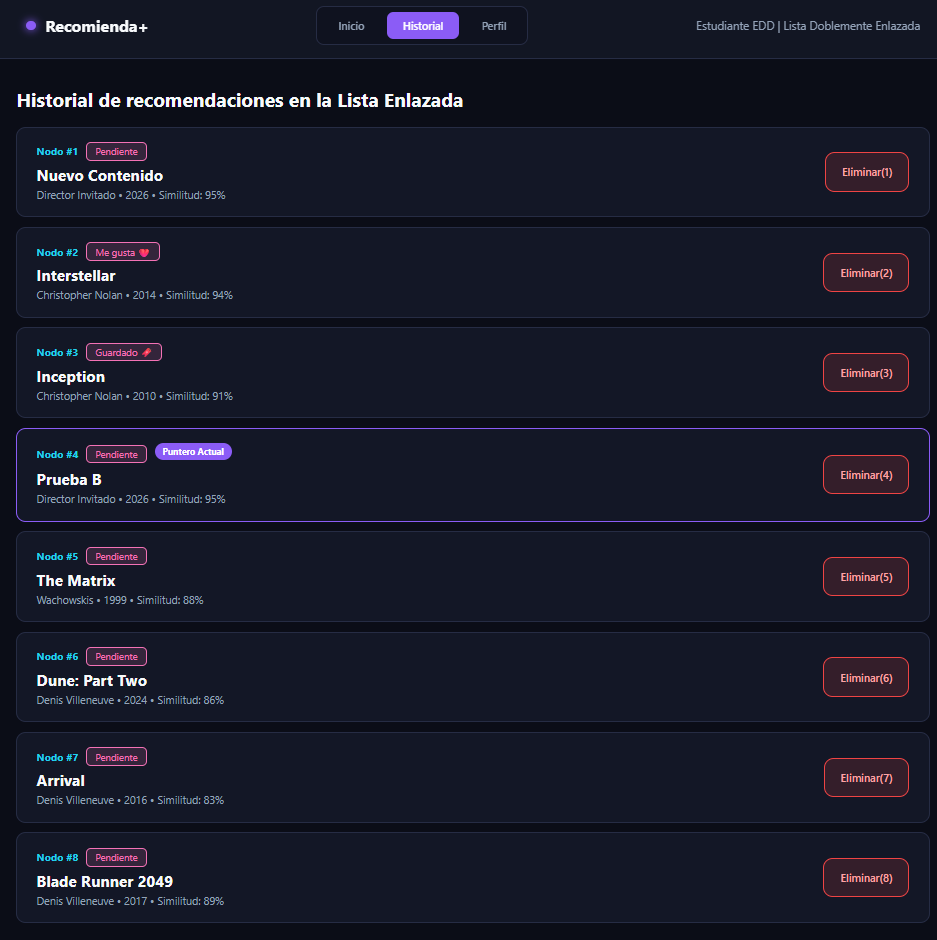
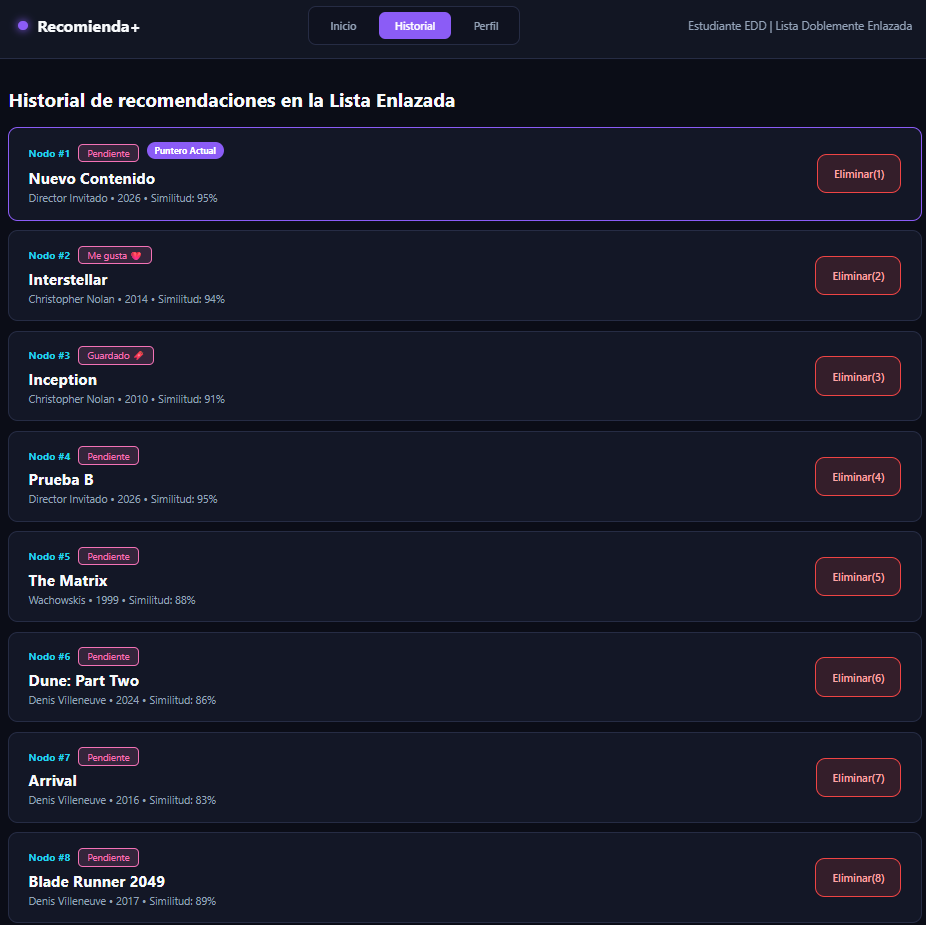
Corregir resultados de CP-07 y CP-12 y agregar defectos

diff --git a/docs/casos-de-prueba.md b/docs/casos-de-prueba.md
@@ -30,7 +30,7 @@ Datos iniciales (7 nodos, Actual = 1):
 
 | ID | Caso | Pasos | Resultado esperado | Resultado obtenido | Estado |
 |---|---|---|---|---|---|
-| CP-01 | Estado inicial | Reiniciar y cargar la página | Longitud = 7, Actual = 1, anterior = NULL, actual = Nuevo Contenido, siguiente = Interstellar | Longitud = 7, Actual= 1, anterior = NULL, Actual = Nuevo contenido; siguiente = Interestellar | Pasó |
+| CP-01 | Estado inicial | Reiniciar y cargar la página | Longitud = 7, Actual = 1, anterior = NULL, nodo actual = Nuevo Contenido, siguiente = Interstellar | Longitud = 7, Actual= 1, anterior = NULL, Actual = Nuevo contenido; siguiente = Interestellar | Pasó |
 | CP-02 | Siguiente y Anterior | Desde Actual = 1: Siguiente; luego Anterior | Tras Siguiente: Actual = 2 (Interstellar), anterior = Nuevo Contenido, siguiente = Inception. Tras Anterior: Actual = 1 |Actual= 2 (interestellar), anterior = Nuevo Contenido, siguiente = inception, tras anterior: Actual = 1 | Pasó |
 | CP-03 | Anterior en la cabeza | Con Actual = 1, presionar Anterior | No cambia nada: Actual = 1, anterior = NULL | Anterior, no cambia nada, Actual = 1, anterior = NULL, siguiente = Interestellar | Pasó |
 | CP-04 | Siguiente en la cola | Siguiente x6 hasta Actual = 7; presionar Siguiente una vez más | Actual = 7 (Blade Runner 2049), siguiente = NULL | Siguiente 6 veces, actual = 7, siguiente = Null, anterior = Arrival | Pasó |
@@ -43,7 +43,7 @@ Formulario "Insertar Recomendación por Posición": título, director, similitud
 | ID | Caso | Pasos | Resultado esperado | Resultado obtenido | Estado |
 |---|---|---|---|---|---|
 | CP-06 | Insertar al inicio con el puntero en la cabeza | Con Actual = 1: título "Prueba A", posición 1 | Longitud = 8. Prueba A en #1 y Nuevo Contenido en #2. El nodo actual sigue siendo Nuevo Contenido, por lo que Actual = 2 y su anterior = Prueba A | Longitud = 8, Prueba A en #1, Nuevo contenido en #2, Actual = 1 (esperaba 2), anterior = Prueba A, Sig = Interestellar | Falló |
-| CP-07 | Insertar en medio, después del puntero | Con Actual = 1: "Prueba B", posición 4 | Longitud = 8. Prueba B en #4 y The Matrix en #5. Actual = 1 sin cambios | Longitud = 8, Pueba B en #4, The Matrix en #5, Puntero actual #4| Pasó |
+| CP-07 | Insertar en medio, después del puntero | Con Actual = 1: "Prueba B", posición 4 | Longitud = 8. Prueba B en #4 y The Matrix en #5. Actual = 1 sin cambios | Longitud = 8; Prueba B en #4; The Matrix en #5; Actual = 1; Puntero Actual en #1 (Nuevo Contenido). Caso repetido: la primera ejecución no partió de Actual = 1.| Pasó |
 | CP-08 | Insertar en medio, antes del puntero | Siguiente x5 (Actual = 6, Arrival); "Prueba C", posición 3 | Longitud = 8. Prueba C en #3. Arrival pasa a #7 y sigue siendo el nodo actual, por lo que Actual = 7 | Longitud = 8, Prueba C en #3, Arrival en #7, Puntero actual = 6 (esperaba 7) | Falló |
 | CP-09 | Insertar al final | "Prueba D", posición 8 | Longitud = 8. Prueba D en #8 (nueva cola) y Blade Runner 2049 en #7. Actual = 1 | Longitud =8, Prueba D en #8 Blade Runner 2049 #7, Puntero Actual = 1 | Pasó |
 | CP-10 | Insertar con posición igual a la longitud | "Prueba E", posición 7 | Longitud = 8. Prueba E en #7 y Blade Runner 2049 pasa a #8 (se inserta antes del último, no al final) | Longitud = 8, Prueba E en #7, Blade Runner 2049 en $8 | Pasó |
@@ -52,11 +52,11 @@ Formulario "Insertar Recomendación por Posición": título, director, similitud
 
 | ID | Caso | Pasos | Resultado esperado | Resultado obtenido | Estado |
 |---|---|---|---|---|---|
-| CP-11 | Eliminar la cabeza siendo la actual | Con Actual = 1: Descartar | Longitud = 6. Actual = 1, nodo actual = Interstellar, anterior = NULL | Longitud = 6, Puntero actual = 1, Nodo actual = Interestellar, Anterior = NULL | Pasó |
-| CP-12 | Eliminar la cabeza con el puntero más adelante | Siguiente x2 (Actual = 3, Inception); Historial > Eliminar(1) | Longitud = 6. Inception pasa a #2 y sigue siendo el nodo actual, por lo que Actual = 2 | Longitud =6, Inception en #3, Puntero Actual = 3 | Falló |
+| CP-11 | Eliminar la cabeza siendo la actual | Con Actual = 1: Descartar | Longitud = 6. Actual = 1, nodo actual = Interestellar, anterior = NULL | Longitud = 6, Puntero actual = 1, Nodo actual = Interestellar, Anterior = NULL | Pasó |
+| CP-12 | Eliminar la cabeza con el puntero más adelante | Siguiente x2 (Actual = 3, Inception); Historial > Eliminar(1) | Longitud = 6. Inception pasa a #2 y sigue siendo el nodo actual, por lo que Actual = 2 | Longitud =6, Inception en #2, Actual = 3 (esperaba 2) Puntero Actual aparece en #3 (The Matrix) | Falló |
 | CP-13 | Eliminar la cola siendo la actual | Siguiente x6 (Actual = 7); Descartar | Longitud = 6. Actual = 6, nodo actual = Arrival, siguiente = NULL | Descarté Blade Runner 2049, Longitud = 6, Actual = 6, Nodo Actual = Arrival, Sig = NULL | Pasó |
 | CP-14 | Eliminar un nodo intermedio siendo el actual | Siguiente x3 (Actual = 4, The Matrix); Descartar | Longitud = 6. Actual = 4, nodo actual = Dune: Part Two, anterior = Inception, siguiente = Arrival | Descarté The Matrix, Longitud = 6, Actual = 4, Nodo Actual = Dune Part Two, Ant. = Inception, Sig. = Arrival | Pasó |
-| CP-15 | Eliminar un nodo intermedio antes del puntero | Siguiente x4 (Actual = 5, Dune: Part Two); Historial > Eliminar(2) | Longitud = 6. Dune: Part Two pasa a #4 y sigue siendo el nodo actual, por lo que Actual = 4 | Eliminé Interestellar, Longitud = 6, Dune Part Two es #4, Nodo actual: Dune Part Two, Puntero Actual es #5| Falló |
+| CP-15 | Eliminar un nodo intermedio antes del puntero | Siguiente x4 (Actual = 5, Dune: Part Two); Historial > Eliminar(2) | Longitud = 6. Dune: Part Two pasa a #4 y sigue siendo el nodo actual, por lo que Actual = 4 | Eliminé Interestellar, Longitud = 6, Dune Part Two es #4, Nodo actual: Dune Part Two, Puntero Actual es #5 (esperaba 4)| Falló |
 | CP-16 | Eliminar hasta dejar la lista vacía | Con Actual = 1: Descartar x6, revisar; Descartar una vez más | Tras 6: Longitud = 1 (Blade Runner 2049), Actual = 1, anterior y siguiente = NULL. Tras la 7.ª: Longitud = 0, Actual = 0, pantalla "Lista Vacía" | Tras 6 clicks en descartar: Longitud = 1, Actual = 1, Nodo Actual = Blade Runner 2049, Anterior y Siguiente = NULL; tras el 7mo click en descartar: Longitud = 0, Posición = 0, Nodo Actual: Lista Vacía (NULL) | Pasó |
 | CP-17 | Insertar en lista vacía | Continuar de CP-16: "Prueba F", posición 1 | Longitud = 1, Actual = 1, nodo actual = Prueba F, anterior y siguiente = NULL | Al insertar "Prueba F", Actual = Prueba F, Posición = 1, Longitud = 1, Anterior y siguiente = NULL| Pasó |
 
@@ -64,13 +64,13 @@ Formulario "Insertar Recomendación por Posición": título, director, similitud
 
 | ID | Caso | Pasos | Resultado esperado | Resultado obtenido | Estado |
 |---|---|---|---|---|---|
-| CP-18 | Persistencia del estado | Siguiente x3 (The Matrix); presionar "Me gusta"; Ctrl + C; `dotnet run` sin restaurar el JSON; abrir Historial | The Matrix conserva el estado "Me gusta" tras reiniciar y bd_recomienda.json lo refleja | | |
+| CP-18 | Persistencia del estado | Siguiente x3 (The Matrix); presionar "Me gusta"; Ctrl + C; `dotnet run` sin restaurar el JSON; abrir Historial | The Matrix conserva el estado "Me gusta" tras reiniciar y bd_recomienda.json lo refleja | Al reiniciar sin restaurar el JSON, The Matrix muestra el estado: Me gusta, bd_recomienda.json lo reflejaba antes de reiniciar: Me gusta | Pasó |
 
 ## Resumen de resultados
 
 | Total de casos | Pasaron | Fallaron |
 |---|---|---|
-| 18 | | |
+| 18 | 14 | 4 |
 
 ## Defectos encontrados
 
